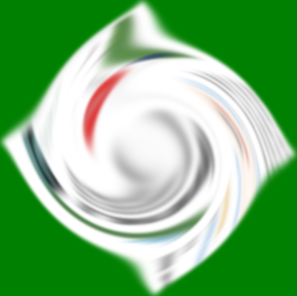
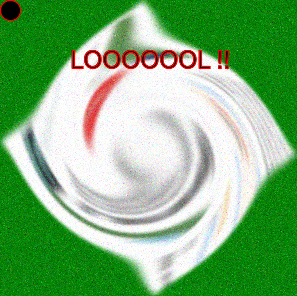
hop

Changed region(s): [[0.0, 0.0, 1.0, 1.0]]

diff --git a/src/Gmim.js b/src/Gmim.js
@@ -22,7 +22,7 @@ class Gmim {
   }
   write(output) {
     return new Promise(async (resolve, reject) => {
-      const child = spawn(this.options.imageMagick ? "convert" : "gm", [
+      const child = spawn(this.options.imageMagick ? "convert" : "gm convert", [
         ...this.args.in,
         this.args.src,
         ...this.args.out,
@@ -36,6 +36,39 @@ class Gmim {
       });
       child.on("close", code => {
         resolve();
+      });
+    });
+  }
+  identify() {
+    return new Promise(async (resolve, reject) => {
+      const child = spawn(
+        this.options.imageMagick ? "identify" : "gm identify",
+        ["-format", "%m %q %b %wx%h %k %[orientation]", this.args.src]
+      );
+      let result = "";
+      child.stdout.on("data", data => {
+        result = data;
+      });
+      child.stderr.on("data", data => {
+        throw new Error(data);
+      });
+      child.on("close", () => {
+        const [
+          format,
+          depth,
+          filesize,
+          size,
+          colors,
+          orientation
+        ] = result.toString("utf8").split(" ");
+        resolve({
+          format: format && format.split(" ")[0],
+          depth: depth && parseInt(depth, 10),
+          filesize,
+          size,
+          colors: colors && parseInt(colors, 10),
+          orientation
+        });
       });
     });
   }
@@ -1059,6 +1092,161 @@ class Gmim {
   background(color) {
     return this.in(["-background", color]);
   }
+
+  // DRAWINGS
+
+  // http://www.graphicsmagick.org/GraphicsMagick.html#details-fill
+  fill(color) {
+    return this.out(["-fill", color || "none"]);
+  }
+
+  // http://www.graphicsmagick.org/GraphicsMagick.html#details-stroke
+  stroke(color, width) {
+    if (width) {
+      this.strokeWidth(width);
+    }
+
+    return this.out(["-stroke", color || "none"]);
+  }
+
+  // http://www.graphicsmagick.org/GraphicsMagick.html#details-strokewidth
+  strokeWidth(width) {
+    return this.out(["-strokewidth", width]);
+  }
+
+  // http://www.graphicsmagick.org/GraphicsMagick.html#details-font
+  font(font, size) {
+    if (size) {
+      this.fontSize(size);
+    }
+
+    return this.out(["-font", font]);
+  }
+
+  // http://www.graphicsmagick.org/GraphicsMagick.html
+  fontSize(size) {
+    return this.out(["-pointsize", size]);
+  }
+
+  // http://www.graphicsmagick.org/GraphicsMagick.html#details-draw
+  draw(args) {
+    return this.out(["-draw", [].slice.call(arguments).join(" ")]);
+  }
+
+  // http://www.graphicsmagick.org/GraphicsMagick.html#details-draw
+  drawPoint(x, y) {
+    return this.draw("point", x + "," + y);
+  }
+
+  // http://www.graphicsmagick.org/GraphicsMagick.html#details-draw
+  drawLine(x0, y0, x1, y1) {
+    return this.draw("line", x0 + "," + y0, x1 + "," + y1);
+  }
+
+  // http://www.graphicsmagick.org/GraphicsMagick.html#details-draw
+  drawRectangle(x0, y0, x1, y1, wc, hc) {
+    var shape = "rectangle",
+      lastarg;
+
+    if ("undefined" !== typeof wc) {
+      shape = "roundRectangle";
+
+      if ("undefined" === typeof hc) {
+        hc = wc;
+      }
+
+      lastarg = wc + "," + hc;
+    }
+
+    return this.draw(shape, x0 + "," + y0, x1 + "," + y1, lastarg);
+  }
+
+  // http://www.graphicsmagick.org/GraphicsMagick.html#details-draw
+  drawArc(x0, y0, x1, y1, a0, a1) {
+    return this.draw("arc", x0 + "," + y0, x1 + "," + y1, a0 + "," + a1);
+  }
+
+  // http://www.graphicsmagick.org/GraphicsMagick.html#details-draw
+  drawEllipse(x0, y0, rx, ry, a0, a1) {
+    if (a0 == undefined) a0 = 0;
+    if (a1 == undefined) a1 = 360;
+    return this.draw("ellipse", x0 + "," + y0, rx + "," + ry, a0 + "," + a1);
+  }
+
+  // http://www.graphicsmagick.org/GraphicsMagick.html#details-draw
+  drawCircle(x0, y0, x1, y1) {
+    return this.draw("circle", x0 + "," + y0, x1 + "," + y1);
+  }
+
+  // http://www.graphicsmagick.org/GraphicsMagick.html#details-draw
+  drawPolyline() {
+    return this.draw("polyline", formatPoints(arguments));
+  }
+
+  // http://www.graphicsmagick.org/GraphicsMagick.html#details-draw
+  drawPolygon() {
+    return this.draw("polygon", formatPoints(arguments));
+  }
+
+  // http://www.graphicsmagick.org/GraphicsMagick.html#details-draw
+  drawBezier() {
+    return this.draw("bezier", formatPoints(arguments));
+  }
+
+  // http://www.graphicsmagick.org/GraphicsMagick.html#details-draw
+  drawText(x0, y0, text, gravity) {
+    var gravity = String(gravity || "").toLowerCase(),
+      arg = ["text " + x0 + "," + y0 + " " + escape(text)];
+
+    const gravities = [
+      "northwest",
+      "north",
+      "northeast",
+      "west",
+      "center",
+      "east",
+      "southwest",
+      "south",
+      "southeast"
+    ];
+    if (~gravities.indexOf(gravity)) {
+      arg.unshift("gravity", gravity);
+    }
+
+    return this.draw.apply(this, arg);
+  }
+  // http://www.graphicsmagick.org/GraphicsMagick.html#details-draw
+  setDraw(prop, x, y, method) {
+    prop = String(prop || "").toLowerCase();
+    const drawProps = ["color", "matte"];
+    if (!~drawProps.indexOf(prop)) {
+      return this;
+    }
+
+    return this.draw(prop, x + "," + y, method);
+  }
+}
+
+function formatPoints(points) {
+  var len = points.length,
+    result = [],
+    i = 0;
+
+  for (; i < len; ++i) {
+    result.push(points[i].join(","));
+  }
+
+  return result;
+}
+
+function escape(arg) {
+  return (
+    '"' +
+    String(arg)
+      .trim()
+      .replace(/"/g, '\\"') +
+    '"'
+  );
 }
 
 module.exports = Gmim;

diff --git a/examples/convert.js b/examples/convert.js
@@ -1,7 +1,6 @@
 const gmim = require("../index");
 
 (async () => {
-  await gmim(__dirname + "/test.png").rawSize()
   console.log("ready?");
   await gmim(__dirname + "/test.png")
     .resize(320, 200)
@@ -11,6 +10,11 @@ const gmim = require("../index");
     .blur(7, 3)
     .swirl(200)
     .implode(-1.2)
+    .stroke("#ff0000")
+    .noise('laplacian')
+    .drawCircle(10, 10, 20, 10)
+    .fontSize(24)
+    .drawText(30, 20, "LOOOOOOL !!")
     .write(__dirname + "/res.png");
   console.log("done!");
 })();

diff --git a/examples/identify.js b/examples/identify.js
@@ -1,0 +1,6 @@
+const gmim = require("../index");
+
+(async () => {
+  const identity = await gmim(__dirname + "/test.png").identify();
+  console.log(identity);
+})();

diff --git a/README.md b/README.md
@@ -1,3 +1,82 @@
 # gmim
 
-> [WIP] Could be an alternative to (dying) [gm](https://github.com/aheckmann/gm) 
+> [WIP] Could be an alternative to (dying) [gm](https://github.com/aheckmann/gm). It tries to have the same API but modernized.
+
+## Getting started
+
+First download and install [GraphicsMagick](http://www.graphicsmagick.org/) or [ImageMagick](http://www.imagemagick.org/). In Mac OS X, you can simply use [Homebrew](http://mxcl.github.io/homebrew/) and do:
+
+    brew install imagemagick
+    brew install graphicsmagick
+
+If you want WebP support with ImageMagick, you must add the WebP option:
+
+    brew install imagemagick --with-webp
+
+then either use npm:
+
+    npm install gmim
+
+or yarn:
+
+    yarn add gmim
+
+## Basic Usage
+
+```js
+const gmim = require("gmim");
+
+(async () => {
+  await gmim("/test.png")
+    .resize(320, 200)
+    .flip()
+    .magnify()
+    .rotate("green", 45)
+    .blur(7, 3)
+    .swirl(200)
+    .implode(-1.2)
+    .stroke("#ff0000")
+    .noise("laplacian")
+    .drawCircle(10, 10, 20, 10)
+    .fontSize(24)
+    .drawText(30, 20, "LOOOOOOL !!")
+    .write("/res.png");
+})();
+```
+
+## Advanced usage
+
+### Use `GraphicsMagick` instead of `ImageMagick`
+
+```js
+gmim("/test.png", { imageMagick: false })
+  .flip()
+  .write("/res.png")
+  .then(() => {
+    console.log("done!");
+  });
+```
+
+### Get info
+
+```js 
+async function getInfo() {
+  const identity = await gmim(__dirname + "/test.png").identify();
+  return identity;
+}
+/*
+{
+  format: 'PNG',
+  depth: 16,
+  filesize: '343977B',
+  size: '884x816',
+  colors: 35156,
+  // ...
+}
+*/
+```
+
+## Todo
+
+ - [ ] stream buffer
+ - [ ] custom identify
